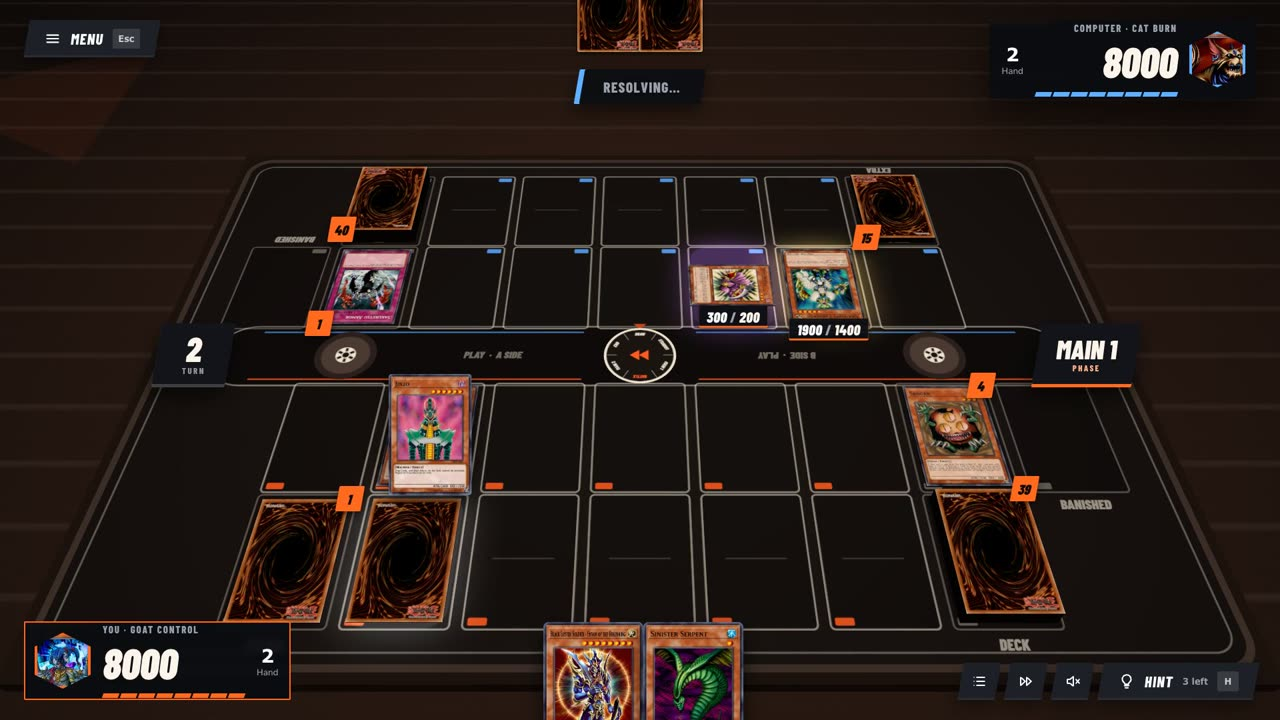
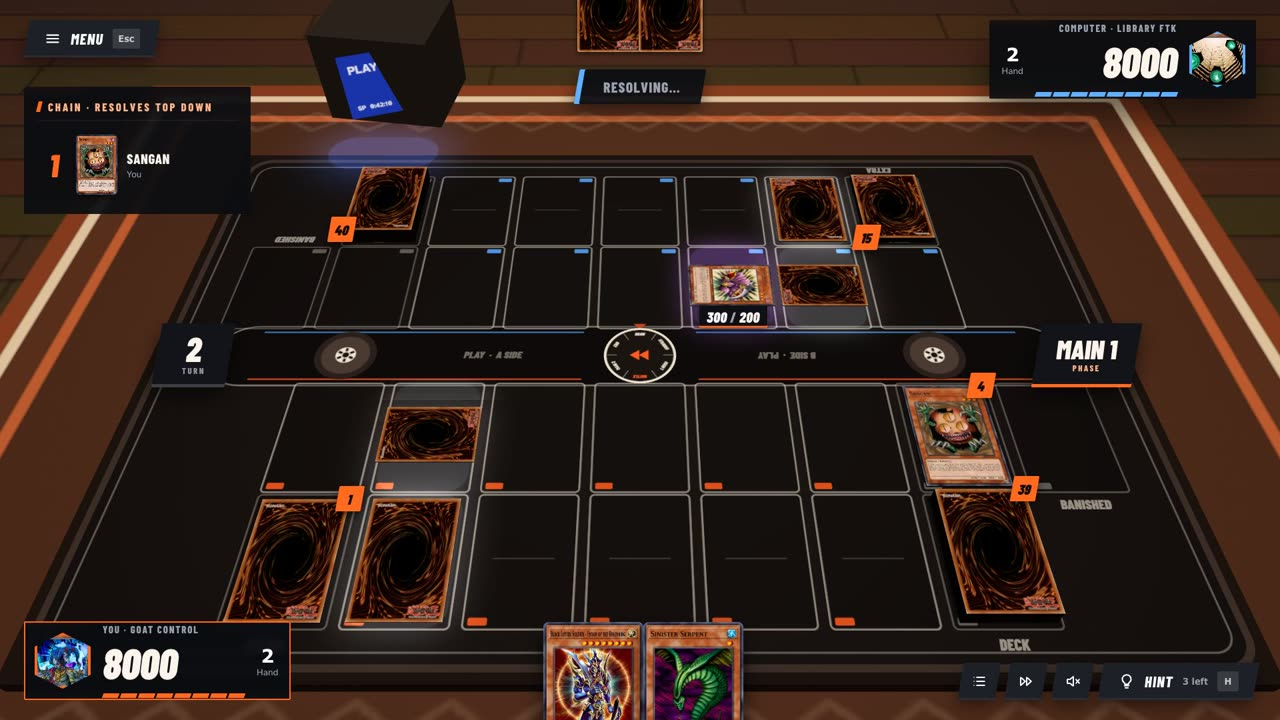
Rewind: den backdrop (rug, CRT), no tapes, Extra Deck under the Field zone

diff --git a/js/boards.js b/js/boards.js
@@ -11,7 +11,7 @@
 
    Boards: arena (Arena Lights), rewind (Rewind), rune (Runestone). Pick with ?mat=<id> or Settings (lrplay:set mat). */
 import * as THREE from '../vendor/three.module.min.js';
-import { ICONS } from './icons.js?v=165';
+import { ICONS } from './icons.js?v=166';
 
 const B = (x, y, z = 0) => new THREE.Vector3(x, z, -y);
 const CW = 0.6, CH = 0.875, ZW = CW + 0.08, ZH = CH + 0.08;
@@ -303,11 +303,16 @@ export class Board {
       g.strokeStyle = 'rgba(90,168,255,.10)'; g.beginPath(); g.arc(P.X(0), P.Y(0), P.U(6.2), Math.PI * 1.08, Math.PI * 1.92); g.stroke();
       g.strokeStyle = 'rgba(255,255,255,.07)'; P.line([[-20, 0], [20, 0]], 0.03);
     } else if (id === 'rewind') {
-      const rg = g.createRadialGradient(P.X(0), P.Y(0.3), 0, P.X(0), P.Y(0.3), P.U(9)); rg.addColorStop(0, 'rgba(90,52,34,.5)'); rg.addColorStop(1, 'rgba(90,52,34,0)'); g.fillStyle = rg; g.fillRect(0, 0, P.c.width, P.c.height);
-      // big rewind marks printed on the floor, and faint stripes like a tape label
-      g.fillStyle = 'rgba(255,91,31,.06)';
-      for (const [cx, cy, s] of [[-8.5, 3.5, 2.2], [8.5, 3.5, 2.2], [-9, -4, 1.6], [9, -4, 1.6]]) for (const dx of [0, s * 0.9]) { g.beginPath(); g.moveTo(P.X(cx + dx - s / 2), P.Y(cy)); g.lineTo(P.X(cx + dx + s / 2), P.Y(cy + s / 2)); g.lineTo(P.X(cx + dx + s / 2), P.Y(cy - s / 2)); g.closePath(); g.fill(); }
-      g.strokeStyle = 'rgba(239,227,207,.05)'; for (let y = -14; y < 18; y += 0.5) P.line([[-20, y], [20, y]], 0.05);
+      // Rewind's world is the den (Zack, 2026-11-26, from the surroundings mock-ups: "i like the first one... just remove the vhs";
+      // "i liked the new backdrop and the brighter squares around the board"): a plank floor, a rug in bright bands under the board, a lamp's warm light
+      const R = rnd(5);
+      g.fillStyle = '#25170e'; g.fillRect(0, 0, P.c.width, P.c.height);
+      for (let y = -14; y < 18; y += 0.55) { g.fillStyle = `rgb(${44 + R() * 16},${28 + R() * 10},${17 + R() * 6})`; g.fillRect(0, P.Y(y + 0.55), P.c.width, P.U(0.55)); g.fillStyle = 'rgba(0,0,0,.45)'; g.fillRect(0, P.Y(y + 0.55), P.c.width, 1.5); for (let x = -20 + R() * 3; x < 20; x += 2.5 + R() * 3) g.fillRect(P.X(x), P.Y(y + 0.55), 1.5, P.U(0.55)); }
+      g.strokeStyle = 'rgba(255,220,180,.05)'; for (let k = 0; k < 260; k++) { const x = (R() - 0.5) * 40, y = (R() - 0.5) * 32; P.line([[x, y], [x + 1 + R() * 2, y + (R() - 0.5) * 0.05]], 0.012); }
+      const band = (w, h, c) => { P.rr(0, 0.15, w, h, 0.05); g.fillStyle = c; g.fill(); };
+      band(10.4, 7.2, '#7a3218'); band(10.0, 6.8, '#d9c3a0'); band(9.8, 6.6, '#4a2416'); band(9.3, 6.1, '#b4532a'); band(9.1, 5.9, '#3a1d13');
+      g.strokeStyle = 'rgba(217,195,160,.14)'; for (let x = -4.4; x <= 4.4; x += 0.55) for (const y of [-2.8, 3.1]) { g.beginPath(); g.moveTo(P.X(x), P.Y(y + 0.15)); g.lineTo(P.X(x + 0.22), P.Y(y)); g.lineTo(P.X(x), P.Y(y - 0.15)); g.lineTo(P.X(x - 0.22), P.Y(y)); g.closePath(); g.lineWidth = 2; g.stroke(); }
+      const rg = g.createRadialGradient(P.X(0), P.Y(0.5), 0, P.X(0), P.Y(0.5), P.U(9)); rg.addColorStop(0, 'rgba(255,170,90,.16)'); rg.addColorStop(1, 'rgba(255,170,90,0)'); g.fillStyle = rg; g.fillRect(0, 0, P.c.width, P.c.height);
     } else if (this.M.theme) { this.M.theme.floor(P, g, rnd(17));
     } else {
       const rg = g.createRadialGradient(P.X(0), P.Y(0.3), 0, P.X(0), P.Y(0.3), P.U(9)); rg.addColorStop(0, 'rgba(40,74,70,.5)'); rg.addColorStop(1, 'rgba(40,74,70,0)'); g.fillStyle = rg; g.fillRect(0, 0, P.c.width, P.c.height);
@@ -593,6 +598,17 @@ export class Board {
       this.reels = [-2.3, 2.3].map(x => { const r = new THREE.Mesh(new THREE.CircleGeometry(0.25, 48), new THREE.MeshBasicMaterial({ map: this.reelTex(), transparent: true })); r.rotation.x = -Math.PI / 2; r.position.copy(B(x, 0, 0.0016)); this.root.add(r); return r; });
       const glow = new THREE.Mesh(new THREE.PlaneGeometry(1.0, 1.0), new THREE.MeshBasicMaterial({ map: glowTex(256, 256, 60, 120), color: 0xff5b1f, transparent: true, opacity: 0, blending: THREE.AdditiveBlending, depthWrite: false }));
       glow.rotation.x = -Math.PI / 2; glow.position.copy(B(0, 0, 0.0014)); glow.visible = false; this.root.add(glow); this.flares[1].push(glow); this.flares[-1].push(glow);
+      // the den's CRT behind the computer's side: a blue PLAY screen that flashes on big summons and hits, glowing on the floor
+      { const x = -2.5, y = SH / 2 + 1.05, cam = this.T.camera.position;
+        const tv = new THREE.Mesh(new THREE.BoxGeometry(1.15, 0.9, 0.9), new THREE.MeshLambertMaterial({ color: 0x2e2824 })); tv.position.copy(B(x, y, 0.45)); tv.rotation.y = -0.15; this.root.add(tv);
+        const c = document.createElement('canvas'); c.width = 320; c.height = 240; const g = c.getContext('2d');
+        g.fillStyle = '#1b38b8'; g.fillRect(0, 0, 320, 240); g.fillStyle = '#e8eeff'; g.font = '700 44px "Atkinson Hyperlegible", sans-serif'; g.fillText('PLAY', 30, 70); g.beginPath(); g.moveTo(150, 36); g.lineTo(186, 54); g.lineTo(150, 72); g.closePath(); g.fill();
+        g.font = '700 24px "Atkinson Hyperlegible", sans-serif'; g.fillText('SP  0:42:10', 30, 210); for (let yy = 0; yy < 240; yy += 4) { g.fillStyle = 'rgba(0,0,0,.18)'; g.fillRect(0, yy, 320, 2); }
+        const tx = new THREE.CanvasTexture(c); tx.colorSpace = THREE.SRGBColorSpace;
+        const screen = (map, o) => { const m = new THREE.Mesh(new THREE.PlaneGeometry(0.82, 0.62), new THREE.MeshBasicMaterial(Object.assign({ map, transparent: true, depthWrite: false }, o))); m.position.copy(B(x + 0.05, y - 0.46, 0.47)); m.lookAt(cam.x, m.position.y + (cam.y - m.position.y) * 0.25, cam.z); this.root.add(m); return m; };
+        screen(tx, {}); const fl = screen(null, { color: 0xffffff, opacity: 0, blending: THREE.AdditiveBlending }); fl.visible = false;
+        const pool = new THREE.Mesh(new THREE.PlaneGeometry(2.2, 1.6), new THREE.MeshBasicMaterial({ map: glowTex(256, 192, 60, 90), color: 0x3a6bff, transparent: true, opacity: 0.35, blending: THREE.AdditiveBlending, depthWrite: false })); pool.rotation.x = -Math.PI / 2; pool.position.copy(B(x, y - 0.95, 0.003)); this.root.add(pool);
+        this.wfx.push(kind => { if (kind !== 'big' && kind !== 'hit') return; fl.visible = true; this.T.tween(500, k => { fl.material.opacity = 0.8 * (k < 0.15 ? k / 0.15 : 1 - (k - 0.15) / 0.85); }).then(() => { fl.material.opacity = 0; fl.visible = false; }); }); }
     } else {
       // standing stones at the corners: their carved rune lights for the turn player and flares on big summons
       const stone = new THREE.MeshLambertMaterial({ color: 0x3a4044 }); this.stones = { 1: [], '-1': [] };

diff --git a/js/game.js b/js/game.js
@@ -1,10 +1,10 @@
 /* Learn Retro Play: the game. Screens, the deck picker, and the duel: engine events (from js/worker.js) become animations on
  the 3D table (js/table.js) and the HUD; your choices go back to the engine. The engine decides every rule; this file only
  shows the duel and passes on what you pick. */
-import { Table } from './table.js?v=165';
-import * as S from './sfx.js?v=165';
-import * as FX from './fx.js?v=165';
-import { Board, layoutOf, matChoice } from './boards.js?v=165';
+import { Table } from './table.js?v=166';
+import * as S from './sfx.js?v=166';
+import * as FX from './fx.js?v=166';
+import { Board, layoutOf, matChoice } from './boards.js?v=166';
 
 const $ = s => document.querySelector(s), $$ = s => [...document.querySelectorAll(s)];
 const REDUCED = matchMedia('(prefers-reduced-motion: reduce)').matches;
@@ -157,7 +157,7 @@ const tileBg = id => TILE_ART.has(+id) ? `<div class="art" style="background-ima
 const artUrl = id => id == null ? 'img/back.webp' : typeof id === 'string' && TOKEN_ART[id] ? `img/${TOKEN_ART[id][0]}.webp` : `img/${id}.webp`;
 
 /* ---------- the duel host ---------- */
-const W = new Worker('js/worker.js?v=165');
+const W = new Worker('js/worker.js?v=166');
 let READY = null; const readyP = new Promise(r => { W.addEventListener('message', function h(e) { if (e.data.type === 'ready') { READY = e.data.formats; W.removeEventListener('message', h); r(); } }); });
 W.postMessage({ type: 'init' });
 W.onmessage = e => { const m = e.data; if (m.type === 'update') duelUpdate(m); else if (m.type === 'hint') showHint(m); else if (m.type === 'summary') { if (D) { D.summary = m.summary; if (D.over) { recordMatch(D.over, m.summary); renderReview(m.summary); } } } else if (m.type === 'reviewing') { const el = $('#resReview p.mute'); if (el) el.textContent = `Reviewing your duel… ${m.left} decisions left`; } else if (m.type === 'error') { console.error(m.message, m.stack); toast('Something went wrong in the engine: ' + m.message, 6000); } };

diff --git a/index.html b/index.html
@@ -16,9 +16,9 @@
 <meta name="apple-mobile-web-app-title" content="LR Play">
 <link rel="preconnect" href="https://fonts.googleapis.com"><link rel="preconnect" href="https://fonts.gstatic.com" crossorigin>
 <link href="https://fonts.googleapis.com/css2?family=Atkinson+Hyperlegible:wght@400;700&family=Atkinson+Hyperlegible+Next:wght@500;700;800&family=Barlow+Condensed:ital,wght@0,600;0,700;0,800;1,700;1,800;1,900&family=VT323&display=swap" rel="stylesheet">
-<link rel="stylesheet" href="css/game.css?v=165">
-<link rel="stylesheet" href="css/rewind.css?v=165">
-<link rel="stylesheet" href="css/mobile.css?v=165">
+<link rel="stylesheet" href="css/game.css?v=166">
+<link rel="stylesheet" href="css/rewind.css?v=166">
+<link rel="stylesheet" href="css/mobile.css?v=166">
 </head>
 <body>
 <svg width="0" height="0" style="position:absolute">
@@ -241,7 +241,7 @@
 <script src="data/tile-art.js"></script>
 <script src="data/box-mix.js"></script>
 <script src="data/tokens.js"></script>
-<script type="module" src="js/game.js?v=165"></script>
+<script type="module" src="js/game.js?v=166"></script>
 <div style="position:fixed;left:50%;top:0;transform:translateX(-50%);z-index:9999;padding:2px 10px;opacity:.85;background:#ff6a1f;color:#140a04;font:800 13px/1.4 Verdana,sans-serif;letter-spacing:.12em;border-radius:3px;pointer-events:none">PREVIEW</div>
 </body>
 </html>
